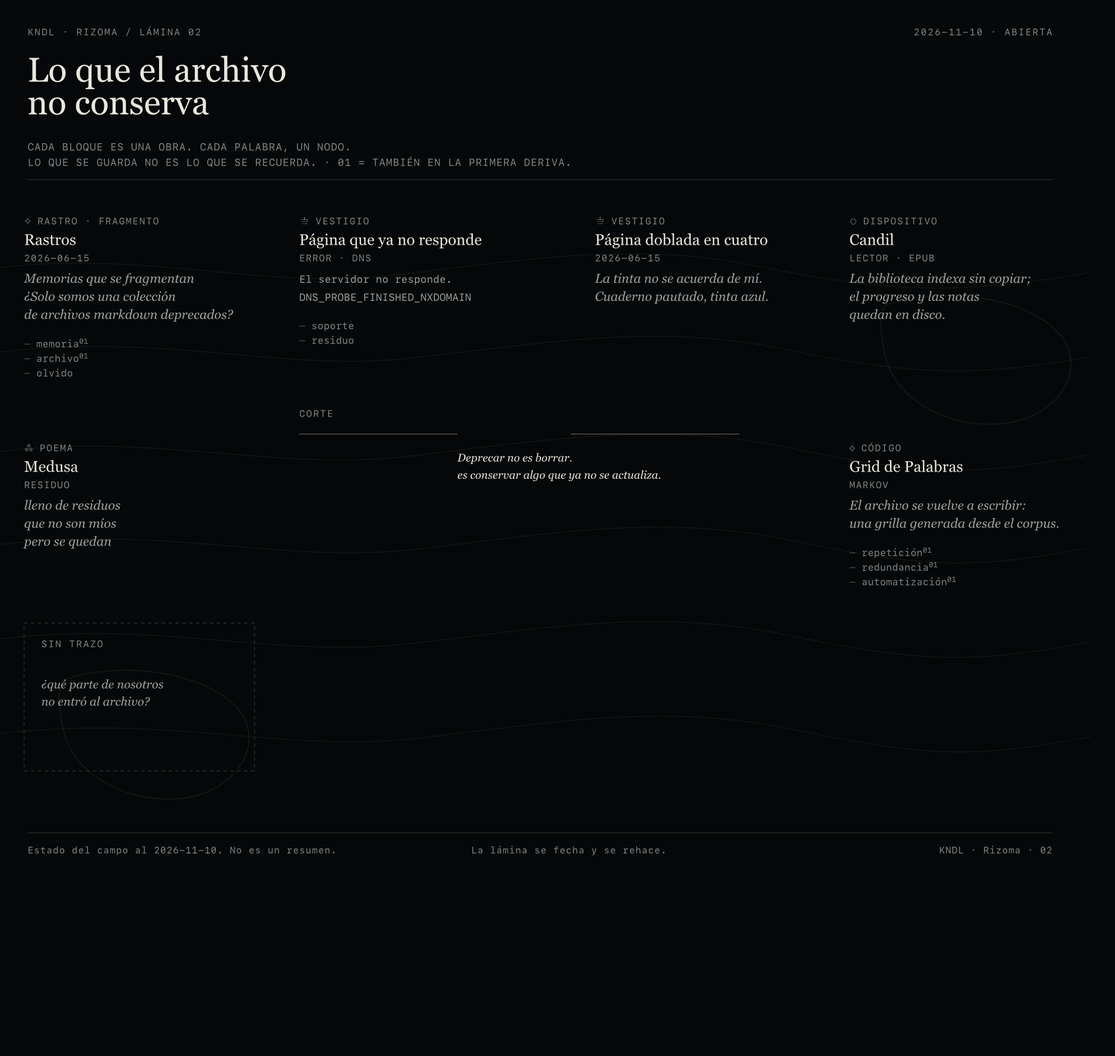
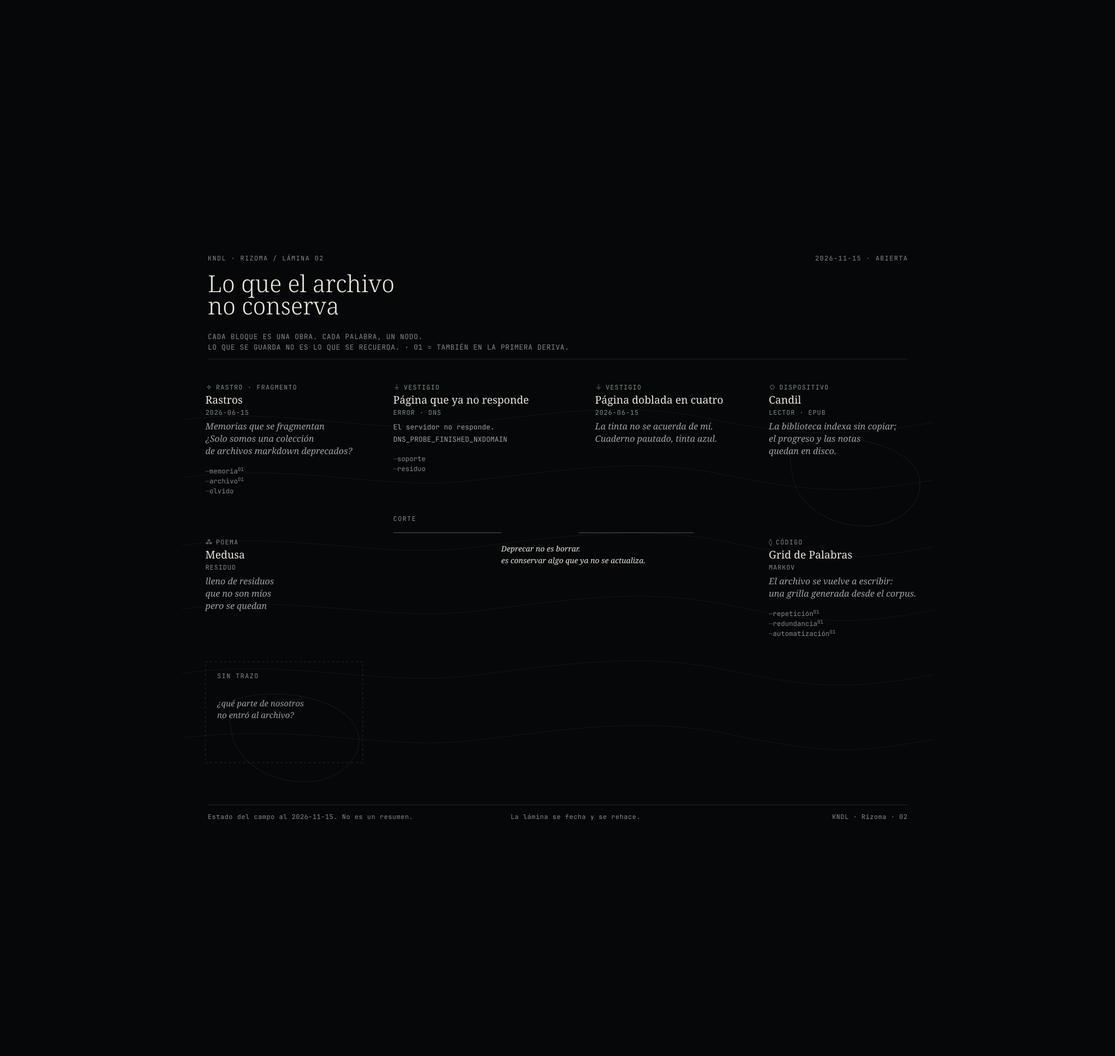
feat(rizoma): reorganiza la 02 como trayectoria editorial
Hace explícita la progresión entre secciones, integra Candil, Grid, los vestigios y Medusa, abre Adherir y enlaza la pregunta de la 01. Re-data la lámina 02 y actualiza la trama del piloto.

diff --git a/docs/lamina-02-svg.html b/docs/lamina-02-svg.html
@@ -145,7 +145,7 @@
   <path d="M1042 130 C 1112 106 1214 122 1248 168 C 1276 208 1240 262 1178 268 C 1110 274 1052 236 1042 190 C 1036 164 1034 140 1042 130Z"/>
   <path d="M86 566 C 156 542 258 558 292 604 C 320 644 284 698 222 704 C 154 710 96 672 86 626 C 80 600 78 576 86 566Z"/>
 </g>
-<a href="/rizoma/" aria-label="Rizoma"><text x="44" y="56" font-size="11" fill="#7f8a88" font-family="'JetBrains Mono', ui-monospace, monospace" letter-spacing="0.12em">KNDL · RIZOMA / LÁMINA 02</text></a><text x="1236" y="56" font-size="11" fill="#7f8a88" font-family="'JetBrains Mono', ui-monospace, monospace" text-anchor="end" letter-spacing="0.12em">2026-11-10 · ABIERTA</text><a href="/rizoma/archivo/" aria-label="Volver a la exploración"><text x="44" y="110" font-size="40" fill="#e9e6dc" font-family="'Newsreader', Georgia, serif" font-weight="300">Lo que el archivo</text><text x="44" y="148" font-size="40" fill="#e9e6dc" font-family="'Newsreader', Georgia, serif" font-weight="300">no conserva</text></a><text x="44" y="190" font-size="12" fill="#7f8a88" font-family="'JetBrains Mono', ui-monospace, monospace" letter-spacing="0.05em">CADA BLOQUE ES UNA OBRA. CADA PALABRA, UN NODO.</text><text x="44" y="208" font-size="12" fill="#7f8a88" font-family="'JetBrains Mono', ui-monospace, monospace" letter-spacing="0.05em">LO QUE SE GUARDA NO ES LO QUE SE RECUERDA. · 01 = TAMBIÉN EN LA PRIMERA DERIVA.</text><line x1="44" y1="224" x2="1236" y2="224" stroke="rgba(233,230,220,0.14)" stroke-width="1"/><g id="plate-field"><g class="work-block"><a href="/fragmentos/" aria-label="Rastros"><text x="40" y="276" font-size="11" fill="#7f8a88" font-family="'JetBrains Mono', ui-monospace, monospace" letter-spacing="0.1em"><tspan font-family="'Newsreader', Georgia, serif" font-size="12">⟡</tspan><tspan dx="6">RASTRO · FRAGMENTO</tspan></text><text x="40" y="300" font-size="18" fill="#e9e6dc" font-family="'Newsreader', Georgia, serif" class="work-title">Rastros</text><text x="40" y="319" font-size="11" fill="#7f8a88" font-family="'JetBrains Mono', ui-monospace, monospace" letter-spacing="0.08em">2026-06-15</text><text x="40" y="344" font-size="15" fill="#9aa3a1" font-family="'Newsreader', Georgia, serif" font-style="italic">Memorias que se fragmentan</text><text x="40" y="365" font-size="15" fill="#9aa3a1" font-family="'Newsreader', Georgia, serif" font-style="italic">¿Solo somos una colección</text><text x="40" y="386" font-size="15" fill="#9aa3a1" font-family="'Newsreader', Georgia, serif" font-style="italic">de archivos markdown deprecados?</text></a><a class="node" href="/rizoma/nodos/#memoria" aria-label="nodo memoria"><text x="40" y="419" font-size="11.5" fill="#7f8a88" font-family="'JetBrains Mono', ui-monospace, monospace"><tspan fill="rgba(233,230,220,0.30)">— </tspan>memoria<tspan font-size="8.5" dy="-4" fill="#7f8a88">01</tspan></text></a><a class="node" href="/rizoma/nodos/#archivo" aria-label="nodo archivo"><text x="40" y="436" font-size="11.5" fill="#7f8a88" font-family="'JetBrains Mono', ui-monospace, monospace"><tspan fill="rgba(233,230,220,0.30)">— </tspan>archivo<tspan font-size="8.5" dy="-4" fill="#7f8a88">01</tspan></text></a><a class="node" href="/rizoma/nodos/#olvido" aria-label="nodo olvido"><text x="40" y="453" font-size="11.5" fill="#7f8a88" font-family="'JetBrains Mono', ui-monospace, monospace"><tspan fill="rgba(233,230,220,0.30)">— </tspan>olvido</text></a></g><g class="work-block"><a href="/vestigios/pagina-que-ya-no-responde/" aria-label="Página que ya no responde"><text x="360" y="276" font-size="11" fill="#7f8a88" font-family="'JetBrains Mono', ui-monospace, monospace" letter-spacing="0.1em"><tspan font-family="'Newsreader', Georgia, serif" font-size="12">⏚</tspan><tspan dx="6">VESTIGIO</tspan></text><text x="360" y="300" font-size="18" fill="#e9e6dc" font-family="'Newsreader', Georgia, serif" class="work-title">Página que ya no responde</text><text x="360" y="319" font-size="11" fill="#7f8a88" font-family="'JetBrains Mono', ui-monospace, monospace" letter-spacing="0.08em">ERROR · DNS</text><text x="360" y="344" font-size="12" fill="#9aa3a1" font-family="'JetBrains Mono', ui-monospace, monospace">El servidor no responde.</text><text x="360" y="365" font-size="12" fill="#9aa3a1" font-family="'JetBrains Mono', ui-monospace, monospace">DNS_PROBE_FINISHED_NXDOMAIN</text></a><a class="node" href="/rizoma/nodos/#soporte" aria-label="nodo soporte"><text x="360" y="398" font-size="11.5" fill="#7f8a88" font-family="'JetBrains Mono', ui-monospace, monospace"><tspan fill="rgba(233,230,220,0.30)">— </tspan>soporte</text></a><a class="node" href="/rizoma/nodos/#residuo" aria-label="nodo residuo"><text x="360" y="415" font-size="11.5" fill="#7f8a88" font-family="'JetBrains Mono', ui-monospace, monospace"><tspan fill="rgba(233,230,220,0.30)">— </tspan>residuo</text></a></g><g class="work-block"><a href="/vestigios/pagina-doblada-en-cuatro/" aria-label="Página doblada en cuatro"><text x="704" y="276" font-size="11" fill="#7f8a88" font-family="'JetBrains Mono', ui-monospace, monospace" letter-spacing="0.1em"><tspan font-family="'Newsreader', Georgia, serif" font-size="12">⏚</tspan><tspan dx="6">VESTIGIO</tspan></text><text x="704" y="300" font-size="18" fill="#e9e6dc" font-family="'Newsreader', Georgia, serif" class="work-title">Página doblada en cuatro</text><text x="704" y="319" font-size="11" fill="#7f8a88" font-family="'JetBrains Mono', ui-monospace, monospace" letter-spacing="0.08em">2026-06-15</text><text x="704" y="344" font-size="15" fill="#9aa3a1" font-family="'Newsreader', Georgia, serif" font-style="italic">La tinta no se acuerda de mí.</text><text x="704" y="365" font-size="15" fill="#9aa3a1" font-family="'Newsreader', Georgia, serif" font-style="italic">Cuaderno pautado, tinta azul.</text></a></g><g class="work-block"><a href="/dispositivos/candil/" aria-label="Candil"><text x="1000" y="276" font-size="11" fill="#7f8a88" font-family="'JetBrains Mono', ui-monospace, monospace" letter-spacing="0.1em"><tspan font-family="'Newsreader', Georgia, serif" font-size="12">⎔</tspan><tspan dx="6">DISPOSITIVO</tspan></text><text x="1000" y="300" font-size="18" fill="#e9e6dc" font-family="'Newsreader', Georgia, serif" class="work-title">Candil</text><text x="1000" y="319" font-size="11" fill="#7f8a88" font-family="'JetBrains Mono', ui-monospace, monospace" letter-spacing="0.08em">LECTOR · EPUB</text><text x="1000" y="344" font-size="15" fill="#9aa3a1" font-family="'Newsreader', Georgia, serif" font-style="italic">La biblioteca indexa sin copiar;</text><text x="1000" y="365" font-size="15" fill="#9aa3a1" font-family="'Newsreader', Georgia, serif" font-style="italic">el progreso y las notas</text><text x="1000" y="386" font-size="15" fill="#9aa3a1" font-family="'Newsreader', Georgia, serif" font-style="italic">quedan en disco.</text></a></g><g class="work-block"><a href="/poemas/medusa/" aria-label="Medusa"><text x="40" y="540" font-size="11" fill="#7f8a88" font-family="'JetBrains Mono', ui-monospace, monospace" letter-spacing="0.1em"><tspan font-family="'Newsreader', Georgia, serif" font-size="12">⁂</tspan><tspan dx="6">POEMA</tspan></text><text x="40" y="564" font-size="18" fill="#e9e6dc" font-family="'Newsreader', Georgia, serif" class="work-title">Medusa</text><text x="40" y="583" font-size="11" fill="#7f8a88" font-family="'JetBrains Mono', ui-monospace, monospace" letter-spacing="0.08em">RESIDUO</text><text x="40" y="608" font-size="15" fill="#9aa3a1" font-family="'Newsreader', Georgia, serif" font-style="italic">lleno de residuos</text><text x="40" y="629" font-size="15" fill="#9aa3a1" font-family="'Newsreader', Georgia, serif" font-style="italic">que no son míos</text><text x="40" y="650" font-size="15" fill="#9aa3a1" font-family="'Newsreader', Georgia, serif" font-style="italic">pero se quedan</text></a></g><g class="work-block"><a href="/codigo/grid-palabras/" aria-label="Grid de Palabras"><text x="1000" y="540" font-size="11" fill="#7f8a88" font-family="'JetBrains Mono', ui-monospace, monospace" letter-spacing="0.1em"><tspan font-family="'Newsreader', Georgia, serif" font-size="12">◊</tspan><tspan dx="6">CÓDIGO</tspan></text><text x="1000" y="564" font-size="18" fill="#e9e6dc" font-family="'Newsreader', Georgia, serif" class="work-title">Grid de Palabras</text><text x="1000" y="583" font-size="11" fill="#7f8a88" font-family="'JetBrains Mono', ui-monospace, monospace" letter-spacing="0.08em">MARKOV</text><text x="1000" y="608" font-size="15" fill="#9aa3a1" font-family="'Newsreader', Georgia, serif" font-style="italic">El archivo se vuelve a escribir:</text><text x="1000" y="629" font-size="15" fill="#9aa3a1" font-family="'Newsreader', Georgia, serif" font-style="italic">una grilla generada desde el corpus.</text></a><a class="node" href="/rizoma/nodos/#repeticion" aria-label="nodo repetición"><text x="1000" y="662" font-size="11.5" fill="#7f8a88" font-family="'JetBrains Mono', ui-monospace, monospace"><tspan fill="rgba(233,230,220,0.30)">— </tspan>repetición<tspan font-size="8.5" dy="-4" fill="#7f8a88">01</tspan></text></a><a class="node" href="/rizoma/nodos/#redundancia" aria-label="nodo redundancia"><text x="1000" y="679" font-size="11.5" fill="#7f8a88" font-family="'JetBrains Mono', ui-monospace, monospace"><tspan fill="rgba(233,230,220,0.30)">— </tspan>redundancia<tspan font-size="8.5" dy="-4" fill="#7f8a88">01</tspan></text></a><a class="node" href="/rizoma/nodos/#automatizacion" aria-label="nodo automatización"><text x="1000" y="696" font-size="11.5" fill="#7f8a88" font-family="'JetBrains Mono', ui-monospace, monospace"><tspan fill="rgba(233,230,220,0.30)">— </tspan>automatización<tspan font-size="8.5" dy="-4" fill="#7f8a88">01</tspan></text></a></g><text x="360" y="500" font-size="11" fill="#7f8a88" font-family="'JetBrains Mono', ui-monospace, monospace" letter-spacing="0.12em">CORTE</text><line x1="360" y1="520" x2="544" y2="520" stroke="rgba(233,230,220,0.34)" stroke-width="1"/><line x1="676" y1="520" x2="872" y2="520" stroke="rgba(233,230,220,0.34)" stroke-width="1"/><text x="544" y="552" font-size="13" fill="#e9e6dc" font-family="'Newsreader', Georgia, serif" font-style="italic">Deprecar no es borrar.</text><text x="544" y="572" font-size="13" fill="#e9e6dc" font-family="'Newsreader', Georgia, serif" font-style="italic">es conservar algo que ya no se actualiza.</text><rect x="40" y="740" width="268" height="172" fill="none" stroke="rgba(233,230,220,0.16)" stroke-width="1" stroke-dasharray="4 4"/><text x="60" y="768" font-size="11" fill="#7f8a88" font-family="'JetBrains Mono', ui-monospace, monospace" letter-spacing="0.12em">SIN TRAZO</text><text x="60" y="816" font-size="14" fill="#9aa3a1" font-family="'Newsreader', Georgia, serif" font-style="italic">¿qué parte de nosotros</text><text x="60" y="836" font-size="14" fill="#9aa3a1" font-family="'Newsreader', Georgia, serif" font-style="italic">no entró al archivo?</text></g><line x1="44" y1="984" x2="1236" y2="984" stroke="rgba(233,230,220,0.14)" stroke-width="1"/><text x="44" y="1008" font-size="11" fill="#7f8a88" font-family="'JetBrains Mono', ui-monospace, monospace" letter-spacing="0.05em">Estado del campo al 2026-11-10. No es un resumen.</text><text x="560" y="1008" font-size="11" fill="#7f8a88" font-family="'JetBrains Mono', ui-monospace, monospace" letter-spacing="0.05em">La lámina se fecha y se rehace.</text><text x="1236" y="1008" font-size="11" fill="#7f8a88" font-family="'JetBrains Mono', ui-monospace, monospace" text-anchor="end" letter-spacing="0.05em">KNDL · Rizoma · 02</text></svg>
+<a href="/rizoma/" aria-label="Rizoma"><text x="44" y="56" font-size="11" fill="#7f8a88" font-family="'JetBrains Mono', ui-monospace, monospace" letter-spacing="0.12em">KNDL · RIZOMA / LÁMINA 02</text></a><text x="1236" y="56" font-size="11" fill="#7f8a88" font-family="'JetBrains Mono', ui-monospace, monospace" text-anchor="end" letter-spacing="0.12em">2026-11-15 · ABIERTA</text><a href="/rizoma/archivo/" aria-label="Volver a la exploración"><text x="44" y="110" font-size="40" fill="#e9e6dc" font-family="'Newsreader', Georgia, serif" font-weight="300">Lo que el archivo</text><text x="44" y="148" font-size="40" fill="#e9e6dc" font-family="'Newsreader', Georgia, serif" font-weight="300">no conserva</text></a><text x="44" y="190" font-size="12" fill="#7f8a88" font-family="'JetBrains Mono', ui-monospace, monospace" letter-spacing="0.05em">CADA BLOQUE ES UNA OBRA. CADA PALABRA, UN NODO.</text><text x="44" y="208" font-size="12" fill="#7f8a88" font-family="'JetBrains Mono', ui-monospace, monospace" letter-spacing="0.05em">LO QUE SE GUARDA NO ES LO QUE SE RECUERDA. · 01 = TAMBIÉN EN LA PRIMERA DERIVA.</text><line x1="44" y1="224" x2="1236" y2="224" stroke="rgba(233,230,220,0.14)" stroke-width="1"/><g id="plate-field"><g class="work-block"><a href="/fragmentos/" aria-label="Rastros"><text x="40" y="276" font-size="11" fill="#7f8a88" font-family="'JetBrains Mono', ui-monospace, monospace" letter-spacing="0.1em"><tspan font-family="'Newsreader', Georgia, serif" font-size="12">⟡</tspan><tspan dx="6">RASTRO · FRAGMENTO</tspan></text><text x="40" y="300" font-size="18" fill="#e9e6dc" font-family="'Newsreader', Georgia, serif" class="work-title">Rastros</text><text x="40" y="319" font-size="11" fill="#7f8a88" font-family="'JetBrains Mono', ui-monospace, monospace" letter-spacing="0.08em">2026-06-15</text><text x="40" y="344" font-size="15" fill="#9aa3a1" font-family="'Newsreader', Georgia, serif" font-style="italic">Memorias que se fragmentan</text><text x="40" y="365" font-size="15" fill="#9aa3a1" font-family="'Newsreader', Georgia, serif" font-style="italic">¿Solo somos una colección</text><text x="40" y="386" font-size="15" fill="#9aa3a1" font-family="'Newsreader', Georgia, serif" font-style="italic">de archivos markdown deprecados?</text></a><a class="node" href="/rizoma/nodos/#memoria" aria-label="nodo memoria"><text x="40" y="419" font-size="11.5" fill="#7f8a88" font-family="'JetBrains Mono', ui-monospace, monospace"><tspan fill="rgba(233,230,220,0.30)">— </tspan>memoria<tspan font-size="8.5" dy="-4" fill="#7f8a88">01</tspan></text></a><a class="node" href="/rizoma/nodos/#archivo" aria-label="nodo archivo"><text x="40" y="436" font-size="11.5" fill="#7f8a88" font-family="'JetBrains Mono', ui-monospace, monospace"><tspan fill="rgba(233,230,220,0.30)">— </tspan>archivo<tspan font-size="8.5" dy="-4" fill="#7f8a88">01</tspan></text></a><a class="node" href="/rizoma/nodos/#olvido" aria-label="nodo olvido"><text x="40" y="453" font-size="11.5" fill="#7f8a88" font-family="'JetBrains Mono', ui-monospace, monospace"><tspan fill="rgba(233,230,220,0.30)">— </tspan>olvido</text></a></g><g class="work-block"><a href="/vestigios/pagina-que-ya-no-responde/" aria-label="Página que ya no responde"><text x="360" y="276" font-size="11" fill="#7f8a88" font-family="'JetBrains Mono', ui-monospace, monospace" letter-spacing="0.1em"><tspan font-family="'Newsreader', Georgia, serif" font-size="12">⏚</tspan><tspan dx="6">VESTIGIO</tspan></text><text x="360" y="300" font-size="18" fill="#e9e6dc" font-family="'Newsreader', Georgia, serif" class="work-title">Página que ya no responde</text><text x="360" y="319" font-size="11" fill="#7f8a88" font-family="'JetBrains Mono', ui-monospace, monospace" letter-spacing="0.08em">ERROR · DNS</text><text x="360" y="344" font-size="12" fill="#9aa3a1" font-family="'JetBrains Mono', ui-monospace, monospace">El servidor no responde.</text><text x="360" y="365" font-size="12" fill="#9aa3a1" font-family="'JetBrains Mono', ui-monospace, monospace">DNS_PROBE_FINISHED_NXDOMAIN</text></a><a class="node" href="/rizoma/nodos/#soporte" aria-label="nodo soporte"><text x="360" y="398" font-size="11.5" fill="#7f8a88" font-family="'JetBrains Mono', ui-monospace, monospace"><tspan fill="rgba(233,230,220,0.30)">— </tspan>soporte</text></a><a class="node" href="/rizoma/nodos/#residuo" aria-label="nodo residuo"><text x="360" y="415" font-size="11.5" fill="#7f8a88" font-family="'JetBrains Mono', ui-monospace, monospace"><tspan fill="rgba(233,230,220,0.30)">— </tspan>residuo</text></a></g><g class="work-block"><a href="/vestigios/pagina-doblada-en-cuatro/" aria-label="Página doblada en cuatro"><text x="704" y="276" font-size="11" fill="#7f8a88" font-family="'JetBrains Mono', ui-monospace, monospace" letter-spacing="0.1em"><tspan font-family="'Newsreader', Georgia, serif" font-size="12">⏚</tspan><tspan dx="6">VESTIGIO</tspan></text><text x="704" y="300" font-size="18" fill="#e9e6dc" font-family="'Newsreader', Georgia, serif" class="work-title">Página doblada en cuatro</text><text x="704" y="319" font-size="11" fill="#7f8a88" font-family="'JetBrains Mono', ui-monospace, monospace" letter-spacing="0.08em">2026-06-15</text><text x="704" y="344" font-size="15" fill="#9aa3a1" font-family="'Newsreader', Georgia, serif" font-style="italic">La tinta no se acuerda de mí.</text><text x="704" y="365" font-size="15" fill="#9aa3a1" font-family="'Newsreader', Georgia, serif" font-style="italic">Cuaderno pautado, tinta azul.</text></a></g><g class="work-block"><a href="/dispositivos/candil/" aria-label="Candil"><text x="1000" y="276" font-size="11" fill="#7f8a88" font-family="'JetBrains Mono', ui-monospace, monospace" letter-spacing="0.1em"><tspan font-family="'Newsreader', Georgia, serif" font-size="12">⎔</tspan><tspan dx="6">DISPOSITIVO</tspan></text><text x="1000" y="300" font-size="18" fill="#e9e6dc" font-family="'Newsreader', Georgia, serif" class="work-title">Candil</text><text x="1000" y="319" font-size="11" fill="#7f8a88" font-family="'JetBrains Mono', ui-monospace, monospace" letter-spacing="0.08em">LECTOR · EPUB</text><text x="1000" y="344" font-size="15" fill="#9aa3a1" font-family="'Newsreader', Georgia, serif" font-style="italic">La biblioteca indexa sin copiar;</text><text x="1000" y="365" font-size="15" fill="#9aa3a1" font-family="'Newsreader', Georgia, serif" font-style="italic">el progreso y las notas</text><text x="1000" y="386" font-size="15" fill="#9aa3a1" font-family="'Newsreader', Georgia, serif" font-style="italic">quedan en disco.</text></a></g><g class="work-block"><a href="/poemas/medusa/" aria-label="Medusa"><text x="40" y="540" font-size="11" fill="#7f8a88" font-family="'JetBrains Mono', ui-monospace, monospace" letter-spacing="0.1em"><tspan font-family="'Newsreader', Georgia, serif" font-size="12">⁂</tspan><tspan dx="6">POEMA</tspan></text><text x="40" y="564" font-size="18" fill="#e9e6dc" font-family="'Newsreader', Georgia, serif" class="work-title">Medusa</text><text x="40" y="583" font-size="11" fill="#7f8a88" font-family="'JetBrains Mono', ui-monospace, monospace" letter-spacing="0.08em">RESIDUO</text><text x="40" y="608" font-size="15" fill="#9aa3a1" font-family="'Newsreader', Georgia, serif" font-style="italic">lleno de residuos</text><text x="40" y="629" font-size="15" fill="#9aa3a1" font-family="'Newsreader', Georgia, serif" font-style="italic">que no son míos</text><text x="40" y="650" font-size="15" fill="#9aa3a1" font-family="'Newsreader', Georgia, serif" font-style="italic">pero se quedan</text></a></g><g class="work-block"><a href="/codigo/grid-palabras/" aria-label="Grid de Palabras"><text x="1000" y="540" font-size="11" fill="#7f8a88" font-family="'JetBrains Mono', ui-monospace, monospace" letter-spacing="0.1em"><tspan font-family="'Newsreader', Georgia, serif" font-size="12">◊</tspan><tspan dx="6">CÓDIGO</tspan></text><text x="1000" y="564" font-size="18" fill="#e9e6dc" font-family="'Newsreader', Georgia, serif" class="work-title">Grid de Palabras</text><text x="1000" y="583" font-size="11" fill="#7f8a88" font-family="'JetBrains Mono', ui-monospace, monospace" letter-spacing="0.08em">MARKOV</text><text x="1000" y="608" font-size="15" fill="#9aa3a1" font-family="'Newsreader', Georgia, serif" font-style="italic">El archivo se vuelve a escribir:</text><text x="1000" y="629" font-size="15" fill="#9aa3a1" font-family="'Newsreader', Georgia, serif" font-style="italic">una grilla generada desde el corpus.</text></a><a class="node" href="/rizoma/nodos/#repeticion" aria-label="nodo repetición"><text x="1000" y="662" font-size="11.5" fill="#7f8a88" font-family="'JetBrains Mono', ui-monospace, monospace"><tspan fill="rgba(233,230,220,0.30)">— </tspan>repetición<tspan font-size="8.5" dy="-4" fill="#7f8a88">01</tspan></text></a><a class="node" href="/rizoma/nodos/#redundancia" aria-label="nodo redundancia"><text x="1000" y="679" font-size="11.5" fill="#7f8a88" font-family="'JetBrains Mono', ui-monospace, monospace"><tspan fill="rgba(233,230,220,0.30)">— </tspan>redundancia<tspan font-size="8.5" dy="-4" fill="#7f8a88">01</tspan></text></a><a class="node" href="/rizoma/nodos/#automatizacion" aria-label="nodo automatización"><text x="1000" y="696" font-size="11.5" fill="#7f8a88" font-family="'JetBrains Mono', ui-monospace, monospace"><tspan fill="rgba(233,230,220,0.30)">— </tspan>automatización<tspan font-size="8.5" dy="-4" fill="#7f8a88">01</tspan></text></a></g><text x="360" y="500" font-size="11" fill="#7f8a88" font-family="'JetBrains Mono', ui-monospace, monospace" letter-spacing="0.12em">CORTE</text><line x1="360" y1="520" x2="544" y2="520" stroke="rgba(233,230,220,0.34)" stroke-width="1"/><line x1="676" y1="520" x2="872" y2="520" stroke="rgba(233,230,220,0.34)" stroke-width="1"/><text x="544" y="552" font-size="13" fill="#e9e6dc" font-family="'Newsreader', Georgia, serif" font-style="italic">Deprecar no es borrar.</text><text x="544" y="572" font-size="13" fill="#e9e6dc" font-family="'Newsreader', Georgia, serif" font-style="italic">es conservar algo que ya no se actualiza.</text><rect x="40" y="740" width="268" height="172" fill="none" stroke="rgba(233,230,220,0.16)" stroke-width="1" stroke-dasharray="4 4"/><text x="60" y="768" font-size="11" fill="#7f8a88" font-family="'JetBrains Mono', ui-monospace, monospace" letter-spacing="0.12em">SIN TRAZO</text><text x="60" y="816" font-size="14" fill="#9aa3a1" font-family="'Newsreader', Georgia, serif" font-style="italic">¿qué parte de nosotros</text><text x="60" y="836" font-size="14" fill="#9aa3a1" font-family="'Newsreader', Georgia, serif" font-style="italic">no entró al archivo?</text></g><line x1="44" y1="984" x2="1236" y2="984" stroke="rgba(233,230,220,0.14)" stroke-width="1"/><text x="44" y="1008" font-size="11" fill="#7f8a88" font-family="'JetBrains Mono', ui-monospace, monospace" letter-spacing="0.05em">Estado del campo al 2026-11-15. No es un resumen.</text><text x="560" y="1008" font-size="11" fill="#7f8a88" font-family="'JetBrains Mono', ui-monospace, monospace" letter-spacing="0.05em">La lámina se fecha y se rehace.</text><text x="1236" y="1008" font-size="11" fill="#7f8a88" font-family="'JetBrains Mono', ui-monospace, monospace" text-anchor="end" letter-spacing="0.05em">KNDL · Rizoma · 02</text></svg>
     </div>
     
   </div>

diff --git a/src/content/exploraciones/archivo.md b/src/content/exploraciones/archivo.md
@@ -2,18 +2,20 @@
 layout: exploracion
 title: "Lo que el archivo no conserva"
 question: "¿Qué se pierde cuando algo se guarda?"
-summary: "Una deriva por el registro, la pérdida y lo que sobrevive al soporte."
+summary: "Una deriva por el registro, la pérdida, la memoria y el residuo."
 order: "02"
 status: abierta
 date: 2026-11-10
-updated: 2026-11-10
-lamina: true
+updated: 2026-11-15
 procedencia: >-
   El cuerpo de esta deriva se derivó con DeepSeek Harness (modelo
   deepseek-v4.1-flash) en una sesión anterior. El aparato —los dos anexos, su
   índice y la nota de ciclo— se escribió con el mismo agente en esta sesión, el
-  10 de noviembre de 2026. La curación, los cortes y la decisión de publicar son
-  del autor.
+  10 de noviembre de 2026. La reorganización editorial del 15 de noviembre de
+  2026 hizo explícita la trayectoria entre secciones, integró el aparato al
+  cuerpo y abrió la sección Adherir. La curación, la voz y la decisión de
+  publicar son del autor.
+lamina: true
 fields:
   - memoria
   - archivo
@@ -32,28 +34,41 @@ nodos:
   - Residuo
 corpus:
   - url: /fragmentos/
-    note: "Los dos rastros que abren la deriva: la memoria fragmentada y el archivo deprecado."
+    note: "Los rastros que abren la deriva: la memoria fragmentada por la automatización, el archivo markdown deprecado y la escritura para el olvido."
   - url: /vestigios/pagina-que-ya-no-responde/
-    note: "El error como última forma del documento."
+    note: "El error como última forma del documento: el enlace roto sobrevive como nombre."
   - url: /vestigios/pagina-doblada-en-cuatro/
-    note: "La tinta no se acuerda de quien la escribió."
+    note: "El soporte conserva la marca pero no al autor: la tinta no se acuerda de quién escribió."
   - url: /poemas/medusa/
-    note: "El recuerdo como residuo: una experiencia que deja rastros en el cuerpo. Algo que permanece adherido, se acumula y termina modificando a quien lo carga, incluso cuando ya no quiere conservarlo."
+    note: "El cuerpo como soporte: una conservación sin depósito, sin selección y sin índice. La objeción que el archivo no puede resolver."
   - url: /dispositivos/candil/
-    note: "La biblioteca indexa sin copiar; el progreso y las notas quedan en disco."
+    note: "Un archivo que indexa sin copiar: la biblioteca recuerda dónde está el libro, no el libro. La conservación como acceso, no como duplicación."
   - url: /codigo/grid-palabras/
-    note: "El archivo se vuelve a escribir: una grilla generada desde el corpus del sitio."
+    note: "El archivo se vuelve a escribir: una grilla generada desde el corpus. No es memoria; es una forma de seguir hablando."
 # Corpus que corresponde a cada sección (ancla del h2).
 corpus_secciones:
   - seccion: dos-rastros
     piezas:
       - /fragmentos/
+  - seccion: guardar
+    piezas:
+      - /dispositivos/candil/
+  - seccion: recuperar
+    piezas:
+      - /dispositivos/candil/
+  - seccion: transformar
+    piezas:
+      - /codigo/grid-palabras/
   - seccion: deprecar
     piezas:
       - /vestigios/pagina-que-ya-no-responde/
+      - /vestigios/pagina-doblada-en-cuatro/
   - seccion: repetir-para-no-perderse
     piezas:
       - /codigo/grid-palabras/
+  - seccion: adherir
+    piezas:
+      - /poemas/medusa/
 relacionadas:
   - /rizoma/que-se-conserva-cuando-algo-se-repite/
 anexos:
@@ -75,9 +90,14 @@ hitos:
   - date: 2026-11-10
     title: "Lámina 02"
     text: "Se abre la lámina de la segunda deriva: seis obras y ocho nodos, con la deprecación como corte y lo no archivado como blanco."
+  - date: 2026-11-15
+    title: "La deriva se reorganiza"
+    text: "El cuerpo se reescribe para hacer explícita la trayectoria entre secciones: cada una hereda una pregunta, el aparato se integra en el punto de tensión y Medusa abre Adherir. La pregunta por la redundancia de la memoria se enlaza con la 01."
 ---
 
-Si la repetición fue una deriva, el archivo es su sedimento.
+Si la repetición fue una deriva, el archivo es su sedimento. Pero un sedimento no es una memoria: es lo que queda cuando algo se asienta. Esta deriva empieza con dos rastros y termina en un cuerpo que conserva sin archivo. Entre esos dos extremos, el archivo aparece como soporte, como lectura, como transformación, como deprecación, como redundancia y como residuo.
+
+La pregunta es qué se pierde cuando algo se guarda. La primera deriva preguntó qué conserva la repetición; esta pregunta qué conserva el archivo y a costa de qué.
 
 ## 1. Dos rastros {#dos-rastros}
 
@@ -89,7 +109,11 @@ En Rastros hay dos líneas que volvieron mientras escribía la primera deriva:
 
 La primera habla de un proceso. La segunda, de un formato. Las dos preguntan lo mismo desde lados distintos: qué queda de nosotros cuando lo que nos recuerda es un sistema.
 
-No sé si el archivo recuerda. Sé que guarda. Y entre guardar y recordar hay una distancia que todavía no terminé de medir.
+No son ejemplos: son la procedencia de la pregunta. Uno viene de una memoria que se fragmenta por automatización; el otro, de un formato que ya no se actualiza. El archivo aparece ahí como una tecnología que administra la memoria, no como un depósito neutral.
+
+Hay un tercer rastro que vuelve: «No sé si esto lo escribí para mí, para ella, o para el olvido.» Ese rastro no pregunta por el soporte; pregunta por el destino. Escribir para el olvido es una forma de guardar sin esperar lector. El archivo también es eso: una escritura que sobrevive a su destinatario.
+
+No sé si el archivo recuerda. Sé que guarda. Y entre guardar y recordar hay una distancia que todavía no terminé de medir. Para medirla hay que empezar por el soporte.
 
 ## 2. Guardar {#guardar}
 
@@ -101,15 +125,21 @@ Por eso una colección de archivos no es una memoria. Es su materia prima.
 
 Y hoy el archivo se mantiene solo, o eso parece. Respaldos, índices, versiones, sincronización: procesos que se automatizan y que nadie mira. La memoria está delegada. Cuando uno de esos procesos falla, se descubre cuánto se había delegado.
 
+Candil, un lector de EPUB, permite ver esa delegación de otra manera. Indexa carpetas sin copiar los libros; el progreso, los destacados y las notas quedan en disco. Es un soporte que decide conservar el acceso, no la copia. Su biblioteca no es un depósito: es un mapa de dónde están las cosas. Hay archivos que conservan objetos y archivos que conservan posiciones.
+
+Si el soporte decide qué se puede guardar, la pregunta siguiente es qué se recupera cuando volvemos a leer.
+
 ## 3. Recuperar {#recuperar}
 
 Recuperar no es devolver. Es volver a leer desde el presente.
 
 El archivo no devuelve el pasado: devuelve lo que el presente puede leer de él. Por eso una misma página dice cosas distintas según el día. No cambió el archivo. Cambió quien lo abre.
 
-El archivo conserva lo que fuimos, pero no necesariamente aquello que nos hizo serlo.
+El archivo conserva lo que fuimos, pero no necesariamente aquello que nos hizo serlo. Esa frase me parece cierta y no sé bien por qué. Quizá porque lo que nos hizo serlo no era un contenido: era una relación. Y las relaciones no se guardan: se practican.
 
-Esa frase me parece cierta y no sé bien por qué. Quizá porque lo que nos hizo serlo no era un contenido: era una relación. Y las relaciones no se guardan: se practican.
+Candil vuelve sobre esto: recuerda dónde está el libro, no el libro; guarda el progreso y las notas, no la lectura. La lectura se practica cada vez. El archivo puede conservar la posición; la relación con el texto hay que rehacerla.
+
+Si recuperar es volver a leer desde el presente, ¿qué pasa cuando el archivo cambia de formato o de nombre?
 
 ## 4. Transformar {#transformar}
 
@@ -119,29 +149,59 @@ Hay una transformación más silenciosa: la que hace el índice. Ordenar, etique
 
 El archivo no es lo contrario del olvido: es una forma de administrarlo.
 
+Grid de palabras lleva la transformación al extremo: un modelo de Markov llena una grilla con el corpus del sitio. Cada generación es una muestra nueva; el archivo no se lee, se vuelve a escribir. No es memoria: es una forma de seguir hablando. Pero también es una advertencia: cuando el archivo se reescribe, lo que aparece puede parecer recuerdo y ser solo generación.
+
+Si transformar es interpretar, ¿qué pasa cuando el soporte deja de actualizarse?
+
 ## 5. Deprecar {#deprecar}
 
 Deprecar no es borrar. Es conservar algo que ya no se actualiza.
 
 Un archivo deprecado sigue abriéndose, sigue teniendo el texto, sigue estando en la carpeta. Lo que ya no tiene es futuro. Se mantiene por compatibilidad, por costumbre o por culpa. No hay una fecha en la que deje de funcionar: hay una advertencia.
 
-En Vestigios hay una página que ya no responde. El navegador devuelve un error y ese error es lo único que queda del documento. El error la nombra. Mientras el error se repita, la página sigue existiendo como nombre.
+En Vestigios hay una página que ya no responde. El navegador devuelve un error y ese error es lo único que queda del documento. El error la nombra. Mientras el error se repita, la página sigue existiendo como nombre. Un enlace roto es el residuo del archivo: sobrevive a su propia desaparición.
 
-Un enlace roto es el residuo del archivo: sobrevive a su propia desaparición.
+Hay otra deprecación, más silenciosa. Una página doblada en cuatro, encontrada dentro de un libro que no era mío. La marca del doblez sobrevive; «la tinta no se acuerda de mí». El soporte conserva la huella, pero no al sujeto. No es que el archivo falle: es que conserva la marca y pierde la relación. La página sigue ahí, pero ya no sabemos para quién.
+
+Si deprecar es conservar sin futuro, ¿cómo se conserva lo que no tiene soporte?
 
 ## 6. Repetir para no perderse {#repetir-para-no-perderse}
 
-En la [primera deriva](/rizoma/que-se-conserva-cuando-algo-se-repite/#redundancia "Sección 7: Redundancia") la repetición aparecía como gasto. Acá aparece lo contrario: lo que llega hasta nosotros llegó porque se repitió.
+En la primera deriva la repetición aparecía como gasto. Acá aparece lo contrario: lo que llega hasta nosotros llegó porque se repitió. La 01 cerró su §8 con una pregunta que esta deriva hereda: «¿Cuánta redundancia necesita una memoria para no desaparecer?»
 
 Shannon lo formuló para los mensajes: la redundancia es lo que permite que algo sobreviva al ruido. Repetir ocupa lugar y gasta tiempo, y precisamente por eso conserva. El archivo vive de esa deuda. Lo que se guarda una sola vez se pierde; lo que se copia, se cita y se vuelve a leer dura un poco más.
 
 La conservación no es una propiedad del objeto: es una práctica.
 
-En Código hay un programa que llena una grilla con el corpus del sitio. Cada generación es una muestra nueva: el archivo no se lee, se vuelve a escribir. No es memoria. Es una forma de seguir hablando.
+Candil parece contradecir esta tesis: no copia, indexa. Pero conserva otra cosa: la posición, el acceso, la nota. Su redundancia no está en el objeto, está en el índice. Eso muestra que la redundancia puede distribuirse: la copia no es la única forma de conservar.
 
-Y también es una pérdida. Cada copia elige qué conservar. Cada índice elige qué aparece. Cada formato elige qué se puede leer después. El archivo no conserva el pasado: conserva una versión del pasado que fue posible guardar.
+Grid de palabras muestra el límite: el archivo se reescribe, no se lee. Cada generación es una muestra nueva; lo que aparece puede parecer recuerdo y ser solo generación. Y también es una pérdida. Cada copia elige qué conservar; cada índice elige qué aparece; cada formato elige qué se puede leer después. El archivo no conserva el pasado: conserva una versión del pasado que fue posible guardar.
 
-## 7. Preguntas abiertas {#preguntas-abiertas}
+Pero hay una conservación que no pasa por el archivo.
+
+## 7. Adherir {#adherir}
+
+Hay una conservación que no tiene depósito, ni selección, ni índice, ni lectura. No es un archivo: es un cuerpo.
+
+En Medusa algo ocurre, deja restos, los restos se adhieren, se acumulan y terminan modificando a quien los recibe. El poema lo dice: «caen en partículas / se adhieren / se acumulan / en capas finas / que no dan espacio». No hay depósito, no hay puerta de entrada. El residuo no se recupera: se carga.
+
+Tampoco se repite: no necesita llegar; ya está. «Lleno de residuos / que no son míos / tampoco tuyos / pero se quedan». No tiene dueño y no tiene futuro: «endurecen».
+
+La piedra se lee en dos direcciones. Como petrificación, el residuo vuelve mineral al que lo recibe: es el sueño del archivo llevado al límite, conservar tanto que lo conservado deja de cambiar. Como peso, es lo que se lleva encima y vuelve obligatorio el pasado. Las dos no son alternativas: son un proceso. «Y yo / que no quiero ser piedra / porque ya cargo una».
+
+El cuerpo no es un soporte ni una práctica de repetición. No tiene formato, no tiene puerta de entrada, no se puede migrar ni deprecar. Tampoco se reproduce: el residuo no se copia, no se cita, no se vuelve a leer. No necesita redundancia porque no necesita transmitirse. La pregunta de la 01 recibe acá una respuesta incómoda: ninguna redundancia, si la memoria no tiene que llegar a nadie.
+
+Pero esa respuesta no es una victoria: la memoria que no necesita redundancia es la que no se puede descargar.
+
+Si el archivo se define por el soporte, el residuo queda afuera; si se define por el efecto de conservar, el residuo es el archivo más radical y §2 tendría que cambiar. Si se define por la redundancia, el residuo es el caso de redundancia cero: conserva sin repetir. La deriva no puede decidir con el vocabulario que tiene, porque todos sus verbos suponen un sujeto que hace algo con algo: guardar, recuperar, transformar, deprecar, repetir. El residuo no es un verbo: es una voz media.
+
+El anexo «El residuo no es un archivo» desarrolla esta objeción. Acá queda el lugar donde el cuerpo la encuentra.
+
+Si el residuo no se puede archivar, ¿qué queda de la pregunta por el archivo?
+
+## 8. Preguntas abiertas {#preguntas-abiertas}
+
+La deriva no cierra. Estas preguntas no son un cuestionario: son las deudas que quedaron.
 
 - ¿Qué diferencia hay entre recordar algo y conservar su registro?
 - ¿Puede un archivo sobrevivir a la desaparición de aquello que le daba significado?
@@ -149,5 +209,7 @@ Y también es una pérdida. Cada copia elige qué conservar. Cada índice elige 
 - ¿Cuándo la memoria deja de pertenecernos y empieza a pertenecer al archivo?
 - ¿Qué se pierde en cada copia que se conserva?
 - ¿Qué repite una memoria que no guarda nada?
+- ¿Qué no se puede perder aunque se quiera?
+- ¿Qué sería un archivo que no necesitara redundancia?
 
-No sé si el archivo crece o solo acumula. Por ahora, guardo.
+No sé si el archivo crece o solo acumula. Por ahora, guardo. Pero después de Medusa, ya no sé si guardar es la única forma de conservar.

diff --git a/docs/pilotos/2026-11-15-evaluacion-piloto-b3.md b/docs/pilotos/2026-11-15-evaluacion-piloto-b3.md
@@ -6,6 +6,8 @@ estado: evaluación estructural · validación editorial pendiente · no publica
 
 # Evaluación del piloto B3.1.1
 
+> **Actualización 2026-11-15.** Después de esta evaluación, la exploración 02 se reorganizó editorialmente y se abrió la sección §7 Adherir. El piloto estructural sigue siendo válido; las referencias al “cuerpo sin cambios” corresponden a la versión evaluada antes de esa reescritura.
+
 ## Alcance
 
 Se probó una rebanada mínima de B3.1.1:
@@ -39,10 +41,10 @@ Se probó una rebanada mínima de B3.1.1:
 | Continuidad entre composiciones | **Pasa** | Shannon es la misma inscripción en 01 y 02; “También en” enlaza al ancla de la otra composición |
 | Fuente única de apariciones | **Pasa** | La inscripción no tiene `apariciones`; las composiciones seleccionan y anclan |
 | Trazabilidad | **Pasa** | Las cuatro inscripciones tienen evidencia; la margen distingue `existencia`, `relacion`, `interpretacion`, `inferencia` |
-| Relaciones explícitas | **Pasa** | Shannon y voto están documentados en el cuerpo; autómata y Medusa en el aparato |
+| Relaciones explícitas | **Pasa** | Shannon y voto en el cuerpo; autómata en el aparato; Medusa en el aparato y, desde la reorganización, en 02 §7 |
 | No inventar relaciones | **Pasa** | No se agregó ninguna relación nueva; Medusa se marca como inferencia en el frente transversal |
 | Rechazo conservado | **Pasa estructuralmente** | `medusa-lente` queda en `rechazadas` con motivo |
-| Autonomía editorial | **Pasa** | El cuerpo de 01 y 02 no cambió; la margen es opcional |
+| Autonomía editorial | **Pasa en el piloto original** | El cuerpo de 01 y 02 no cambió durante el piloto; luego 02 se reescribió por decisión editorial |
 | Lectura | **Pasa en escritorio y móvil** | La Trayectoria aparece después de la lámina y antes del Aparato |
 | No grafo / no dashboard | **Pasa** | No hay páginas globales de frentes o nodos; la cartografía es una lista |
 | La trama no se publica completa | **Pasa** | `_site` no contiene `docs/`; solo se renderiza la margen y la cartografía seleccionada |
@@ -66,12 +68,12 @@ El piloto todavía no prueba la parte más importante: **la validación del auto
 | Shannon | Explícita en 01 §7 y 02 §6; también en anexos | `lente` + `contraste` es una lectura validada | La etiqueta de función no está escrita en el cuerpo |
 | Voto por mayoría | Explícita en 01 §7 y anexo redundancia | `contraste` es una lectura de una demostración | El cuerpo lo describe como código, no como argumento |
 | Autómata | Explícita en el anexo automata; **no** en el cuerpo ni en el corpus | `contraste` / `objeción` está en el aparato | El cuerpo de 01 no lo nombra |
-| Medusa | Explícita en el anexo medusa; **no** en el cuerpo de 02 | `contraste` es explícito como objeción | La inscripción en el frente transversal es una inferencia: 01 §8 → 02 §6 + objeción de Medusa |
+| Medusa | Explícita en el anexo medusa; desde la reorganización, también en **02 §7** | `contraste` es explícito como objeción | La inscripción en el frente transversal sigue siendo una inferencia: 01 §8 → 02 §6/§7 + objeción de Medusa |
 
 ## Riesgos observados
 
 1. **Sesgo de autoría.** La trama la escribió el colaborador; el piloto no prueba que el autor la mantenga.
-2. **Evidencia de aparato.** Autómata y Medusa son explícitos en el aparato, no en el cuerpo. La margen lo dice, pero un lector rápido puede sobreleer.
+2. **Evidencia de aparato.** El autómata sigue siendo explícito solo en el aparato; Medusa pasó al cuerpo en §7. La margen lo dice, pero un lector rápido puede sobreleer.
 3. **Densidad de la margen.** La evidencia y las formulaciones están colapsadas; el lector ve motivo y efecto, pero debe abrir para auditar.
 4. **Vista de cartografía pública.** La página es `noindex` y no está en el sitemap, pero el repo es público; no es privacidad real.
 5. **Fricción no medida.** El piloto no prueba cuánto cuesta escribir o validar la trama.

diff --git a/docs/ciclos/2026-11-15-archivo-organicidad.md b/docs/ciclos/2026-11-15-archivo-organicidad.md
@@ -1,0 +1,40 @@
+---
+title: "Ciclo 02 — la deriva se reorganiza"
+date: 2026-11-15
+estado: banco · no publicable
+exploracion: /rizoma/archivo/
+---
+
+# Ciclo 02 — organicidad y trayectoria
+
+Nota de trabajo. No es prosa publicable: registra qué cambió en la exploración 02 y por qué.
+
+## Qué se hizo
+
+- Se reescribió el cuerpo para que cada sección herede una pregunta de la anterior y deje una deuda a la siguiente.
+- Se hizo explícita la procedencia de la pregunta en §1: los dos rastros de Rastros y el rastro de la escritura para el olvido.
+- Se integró Candil en §2 y §3: un archivo que conserva el acceso, no la copia.
+- Se integró Grid de palabras en §4 y §6: el archivo que se reescribe, no se lee.
+- Se usó la página doblada en cuatro en §5: el soporte conserva la marca pero no al autor.
+- Se enlazó la pregunta de la 01 §8 con §6: la redundancia de la memoria.
+- Se abrió §7 Adherir con Medusa: la conservación sin depósito, sin selección y sin índice.
+- Se reescribieron las preguntas abiertas para que sean deudas de la trayectoria, no un cuestionario.
+- Se actualizaron las notas de corpus para que digan qué hace cada obra, no solo qué es.
+- Se actualizaron `corpus_secciones` para que cada obra tenga un lugar en la lectura.
+- Se re-dató la lámina 02: el artefacto se rehace cuando la exploración cambia.
+
+## Por qué
+
+La versión anterior tenía buenas piezas pero no una trayectoria: cada sección agregaba un caso sobre el mismo tema, sin que el lector supiera por qué seguía el anterior. El aparato quedaba al final como un segundo ensayo. La reescritura no agrega tesis nuevas: hace visible la tesis que ya estaba, y conecta el aparato con el punto de tensión que le corresponde.
+
+## Qué queda abierto
+
+- Si Adherir queda como sección o se pliega en §6.
+- Si la lámina 02 debe recomponerse para darle más lugar al residuo.
+- Si el frente `redundancia-memoria` se publica como página global o queda como ancla.
+- Si la 02 debe heredar la pregunta de la 01 de forma más explícita en el resumen.
+- Si la voz de la 02, más pulida que la de la 01, se mantiene o se ablanda.
+
+## Procedencia
+
+La reorganización editorial se hizo con colaboración del agente el 15 de noviembre de 2026. La curación, la voz y la decisión de publicar son del autor. El cuerpo original se había derivado con DeepSeek Harness en una sesión anterior; el aparato se escribió con el mismo agente el 10 de noviembre de 2026.

diff --git a/src/content/anexos/archivo/medusa.md b/src/content/anexos/archivo/medusa.md
@@ -76,5 +76,5 @@ Decidir qué nombra «archivo». Si nombra un soporte, el residuo queda fuera y 
 ## Qué queda abierto
 
 - La definición del nodo Residuo: hoy dice «Lo que queda cuando algo deja de funcionar». *Medusa* sugiere «lo que sigue actuando cuando algo deja de significar».
-- Si el cuerpo suma una sección breve que señale este anexo: ¿va al final de <a class="seccion-ref" href="/rizoma/archivo/#repetir-para-no-perderse" aria-label="Sección 6: Repetir para no perderse" title="Sección 6: Repetir para no perderse">§6</a>, después de la tesis de la redundancia, o se pliega en <a class="seccion-ref" href="/rizoma/archivo/#deprecar" aria-label="Sección 5: Deprecar" title="Sección 5: Deprecar">§5</a>?
+- La sección <a class="seccion-ref" href="/rizoma/archivo/#adherir" aria-label="Sección 7: Adherir" title="Sección 7: Adherir">§7 Adherir</a> ya señala este anexo. Queda decidir si se mantiene como sección o se pliega en <a class="seccion-ref" href="/rizoma/archivo/#repetir-para-no-perderse" aria-label="Sección 6: Repetir para no perderse" title="Sección 6: Repetir para no perderse">§6</a>.
 - Si la objeción toma también la relación entre el margen y <a class="seccion-ref" href="/rizoma/archivo/#recuperar" aria-label="Sección 3: Recuperar" title="Sección 3: Recuperar">§3</a> —las cinco notas del corpus como relaciones guardadas— o si ese caso queda para otra vuelta.

diff --git a/src/content/anexos/archivo/tecnologia.md b/src/content/anexos/archivo/tecnologia.md
@@ -58,5 +58,5 @@ La formulación anterior quedó corregida en «El residuo no es un archivo»; es
 
 ## Qué queda abierto
 
-- Si la sección breve del cuerpo va al final de §6, donde está la tesis de la redundancia, o se pliega en §5.
-- Si el resumen de la 02 —«Una deriva por el registro, la pérdida y lo que sobrevive al soporte»— alcanza para decir que también es una deriva sobre la memoria, o si hay que ajustarlo.
+- La sección §7 Adherir ya señala el anexo medusa. Queda decidir si se mantiene como sección o se pliega en §6.
+- El resumen de la 02 ya incluye la memoria y el residuo: «Una deriva por el registro, la pérdida, la memoria y el residuo». Queda decidir si esa formulación alcanza.
